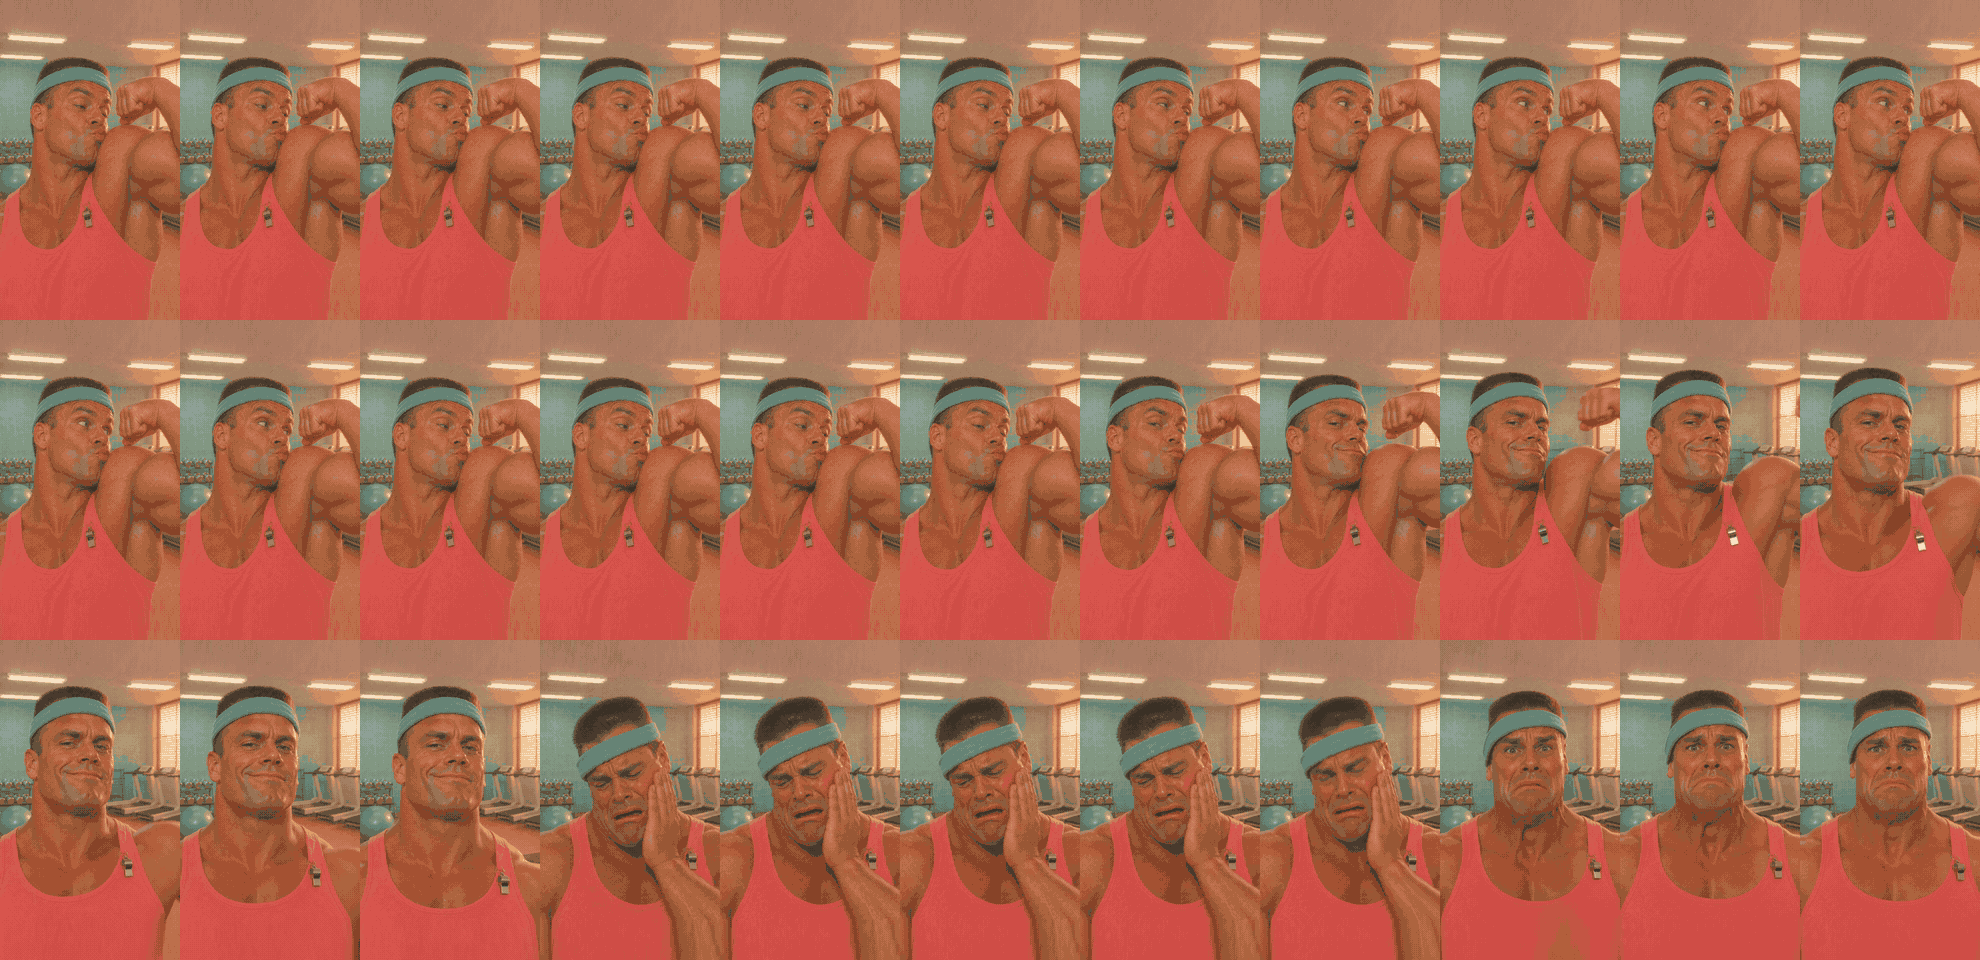
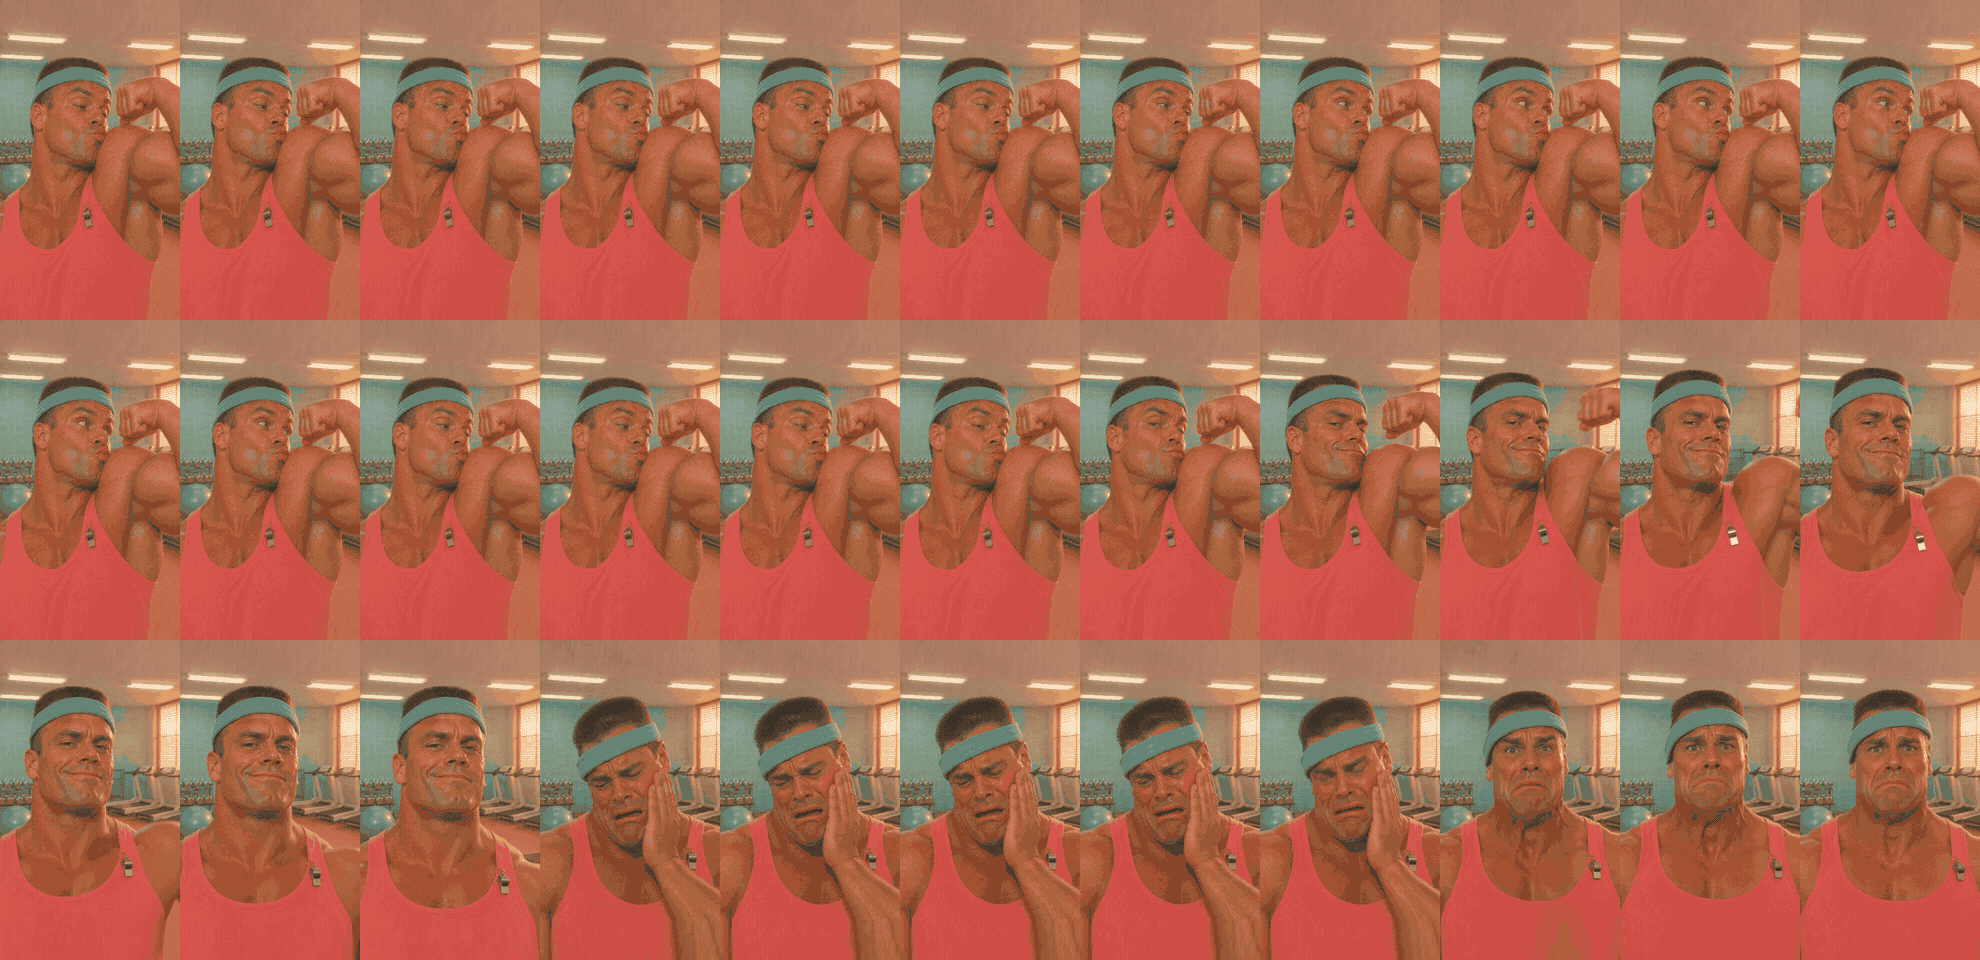
Coach : nouveau revers, garde qui se baisse sans changer de cou, nargue face caméra
Claude-Session: https://claude.ai/code/session_01LTcVWVNKmVysdsbTWnyB8A

diff --git a/index.html b/index.html
@@ -159,7 +159,7 @@ const CH = [
     taunt2: {f:[258,259,260,261,262,263,264,265,266,267,268,269,270,271,272,273,274,275,276,277,278,279,280,281,282,283,284,285,286,287,288,289,290,291,292,293,294,295,296],fps:13,crit:[3,30]},
     taunt3: {f:[297,298,299,300,301,302,303,304,305,306,307,308,309,310,311,312,313,314,315,316,317,318,319,320,321,322,323,324,325,326,327,328,329,330],fps:12,crit:[4,26]}
   } },
-  { name: { fr: "LE COACH", en: "THE COACH" }, pre: "g", sp: "g_", n: 10, per: 33, imgs: [], loaded: 0, parry: '255,216,74', mock: true, A: {
+  { name: { fr: "LE COACH", en: "THE COACH" }, pre: "g", sp: "g_", n: 12, per: 33, imgs: [], loaded: 0, parry: '255,216,74', mock: true, A: {
     idle: {f:[0,1,2,3,4,5,6,7,8,9,8,7,6,5,4,3,2,1],fps:7,loop:true},
     fore: {f:[10,11,12,13,14,15,16,17,18,19,20,21,22,23,24,25,26,27,28,29,30,31,32],fps:12,hit:0,free:7},
     back: {f:[33,34,35,36,37,38,39,40,41,42,43,44,45,46,47,48,49,50,51,52,53,54,55],fps:12,hit:0,free:7},
@@ -172,7 +172,8 @@ const CH = [
     ko: {f:[183,184,185,186,187,188,189,190,191,192,193,194,195,196,197,198,199,200,201,202,203,204,205,206,207,208,209,210,211,212,213,214,215,216,217,218,219,220],fps:12,hit:0},
     enter: {f:[221,222,223,224,225,226,227,228,229,230,231,232,233,234,235,236,237,238,239,240,241,242,243,244,245,246],fps:12},
     taunt2: {f:[247,248,249,250,251,252,253,254,255,256,257,258,259,260,261,262,263,264,265,266,267,268,269,270,271,272,273,274,275,276,277,278,279,280,281,282,283,284,285,286,287,288],fps:13,crit:[10,26]},
-    ouch: {f:[289,290,291,292,293,294,295,296,297,298,299,300,301,302,303,304,305,306,307,308,309,310,311,312,313,314],fps:14}
+    ouch: {f:[289,290,291,292,293,294,295,296,297,298,299,300,301,302,303,304,305,306,307,308,309,310,311,312,313,314],fps:14},
+    taunt3: {f:[315,316,317,318,319,320,321,322,323,324,325,326,327,328,329,330,331,332,333,334,335,336,337,338,339,340,341,342,343,344,345,346,347,348,349,350,351,352,353,354,355,356,357,358,359,360,361,362,363],fps:13,crit:[4,28]}
   } },
 ];
 function loadChar(c) { if (c.imgs.length) return; for (let i = 0; i < c.n; i++) { const im = new Image(); im.onload = () => { c.loaded++; }; im.src = '' + c.pre + i + '.webp'; c.imgs.push(im); } }
